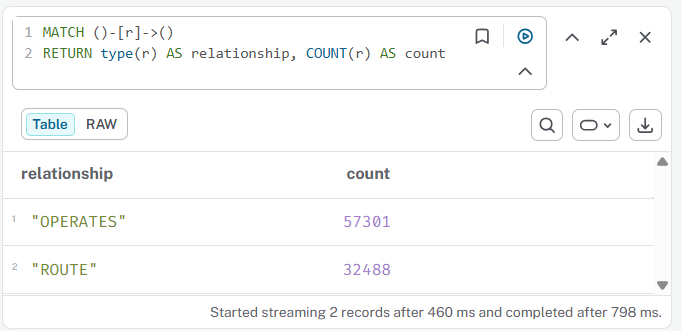
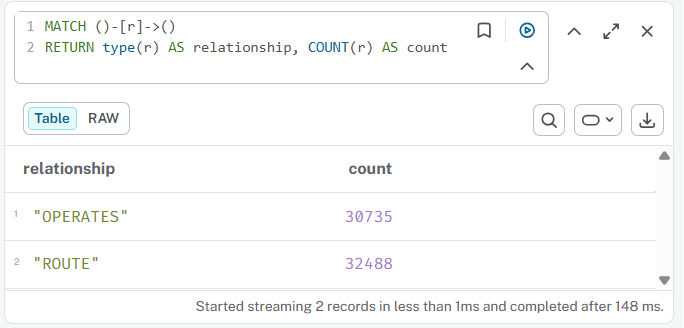
Changed how OPERATES is created

diff --git a/report.md b/report.md
@@ -10,13 +10,13 @@ The property graph consists of two node types and two relationship types.
 
 ##### Nodes
 
-- `Airline` - representing a unique airline operation in the dataset. Each node stores the airline's `name` and `country` of ****registration as its properties.
+- `Airline` - representing a unique airline operation in the dataset. Each node stores the airline's `name` and `country` of registration as its properties.
 - `Airport` - representing a unique airport. Each node stores the airport's `name`, `city`, and `country` as properties.
 
 ##### Relationships
 
 - `OPERATES` - this relationship connects an `Airline` node to a departure `Airport` node, representing that the airline operates a route out of that airport. The `plane_name` property is stored on this relationship as it describes the aircraft used for that specific service, which cannot be attributed to either the airline or airport alone.
-`ROUTE` - this relationship connects a departure `Airport` node to an arrival `Airport` node, representing that a direct connection exists between the two airports. This relationship carries no properties as it solely captures airport connectivity.
+  `ROUTE` - this relationship connects a departure `Airport` node to an arrival `Airport` node, representing that a direct connection exists between the two airports. This relationship carries no properties as it solely captures airport connectivity.
 
 ## 2.2. Arrows App Diagram
 
@@ -148,7 +148,7 @@ The generated CSV filese were copied into Neo4j `import` directory located at th
 
 Below are the Cypher commands to load the CSVs for the nodes and relationships:
 
-![](assets/import_neo4j.png)
+![](assets/load_neo4j.png)
 
 The `LOAD CSV WITH HEADERS` was used to load the CSVs, which reads each row of a CSV file and maps the values to node properties or relationship attributes.
 
@@ -156,7 +156,7 @@ The `LOAD CSV WITH HEADERS` was used to load the CSVs, which reads each row of a
 
 ## 4.2. Database Statistics
 
-After importing and loading the CSV files for the nodes and realtionships, the graph database was verified to contain the expected the number of nodes and relationships. As shown in the screenshots below, the database contains 2,783 nodes across the two labels, with 488 nodes for `Airline` and 2,795 nodes for `Airport`, and 89,789 relationships across two types, with 47,301 for `OPERATES` and 32,488 for `ROUTE`
+After importing and loading the CSV files for the nodes and realtionships, the graph database was verified to contain the expected the number of nodes and relationships. As shown in the screenshots below, the database contains 2,783 nodes across the two labels, with 488 nodes for `Airline` and 2,795 nodes for `Airport`, and 63,223 relationships across two types, with 30,735 for `OPERATES` and 32,488 for `ROUTE`
 
 ###### Node
 
